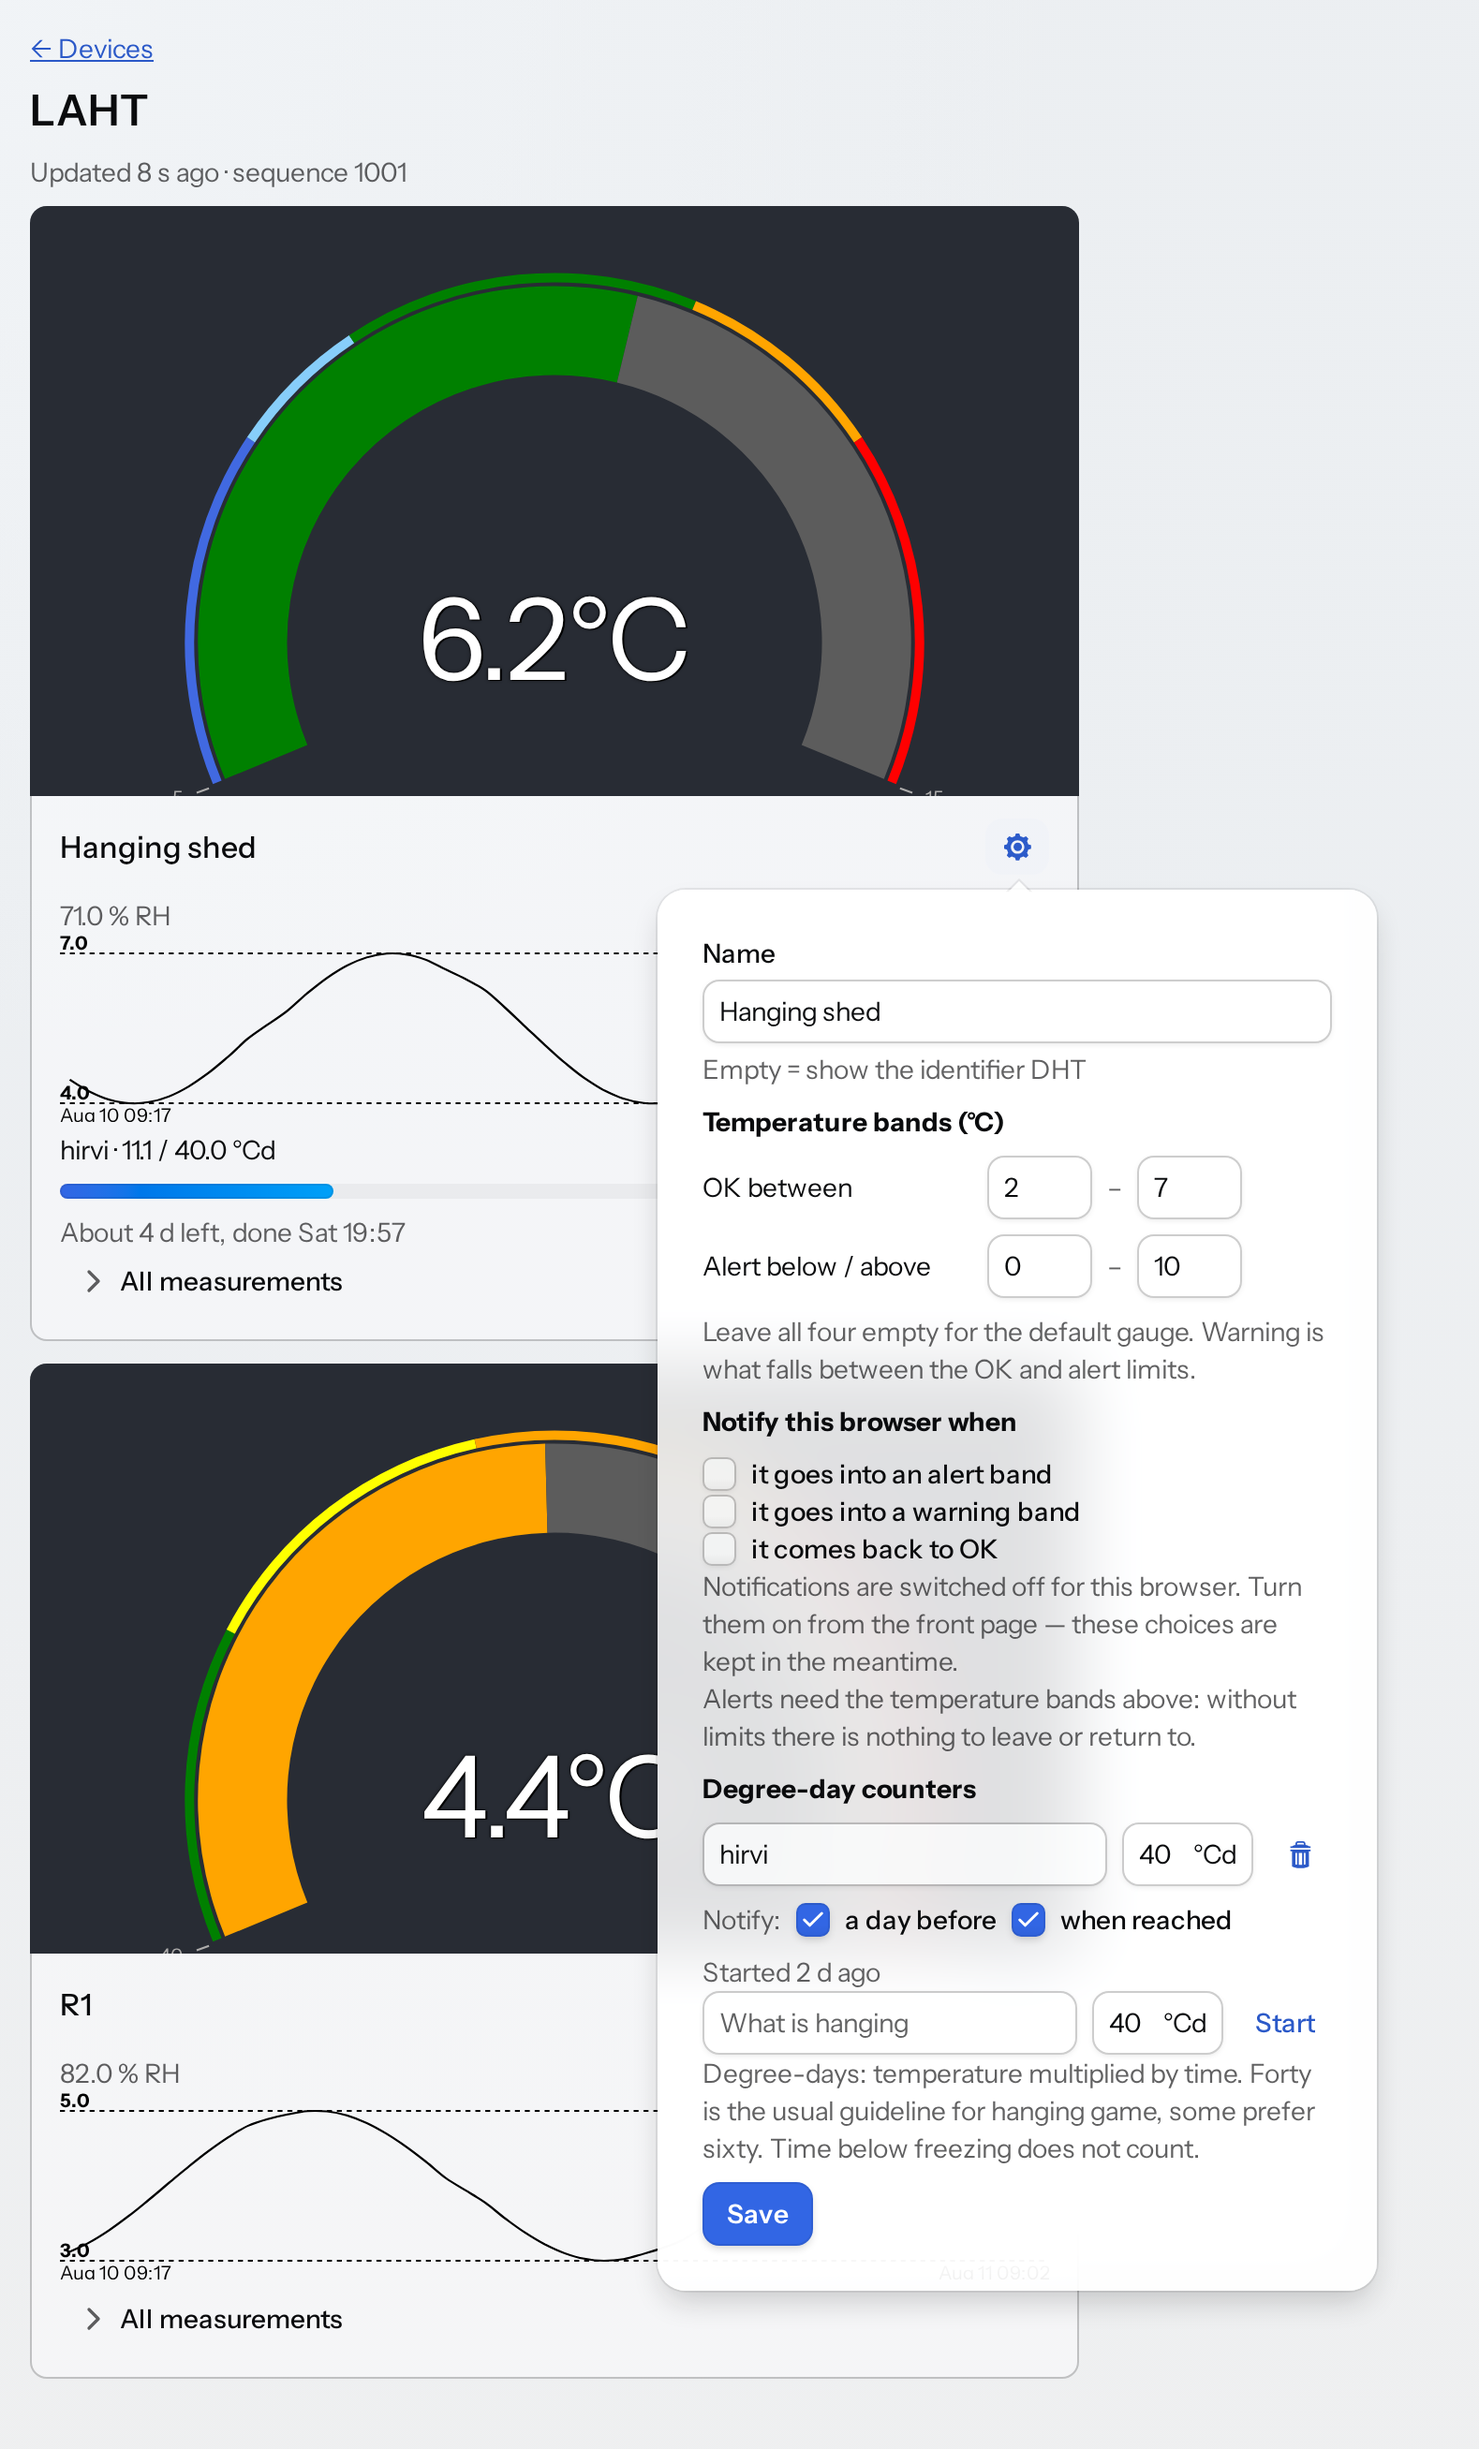
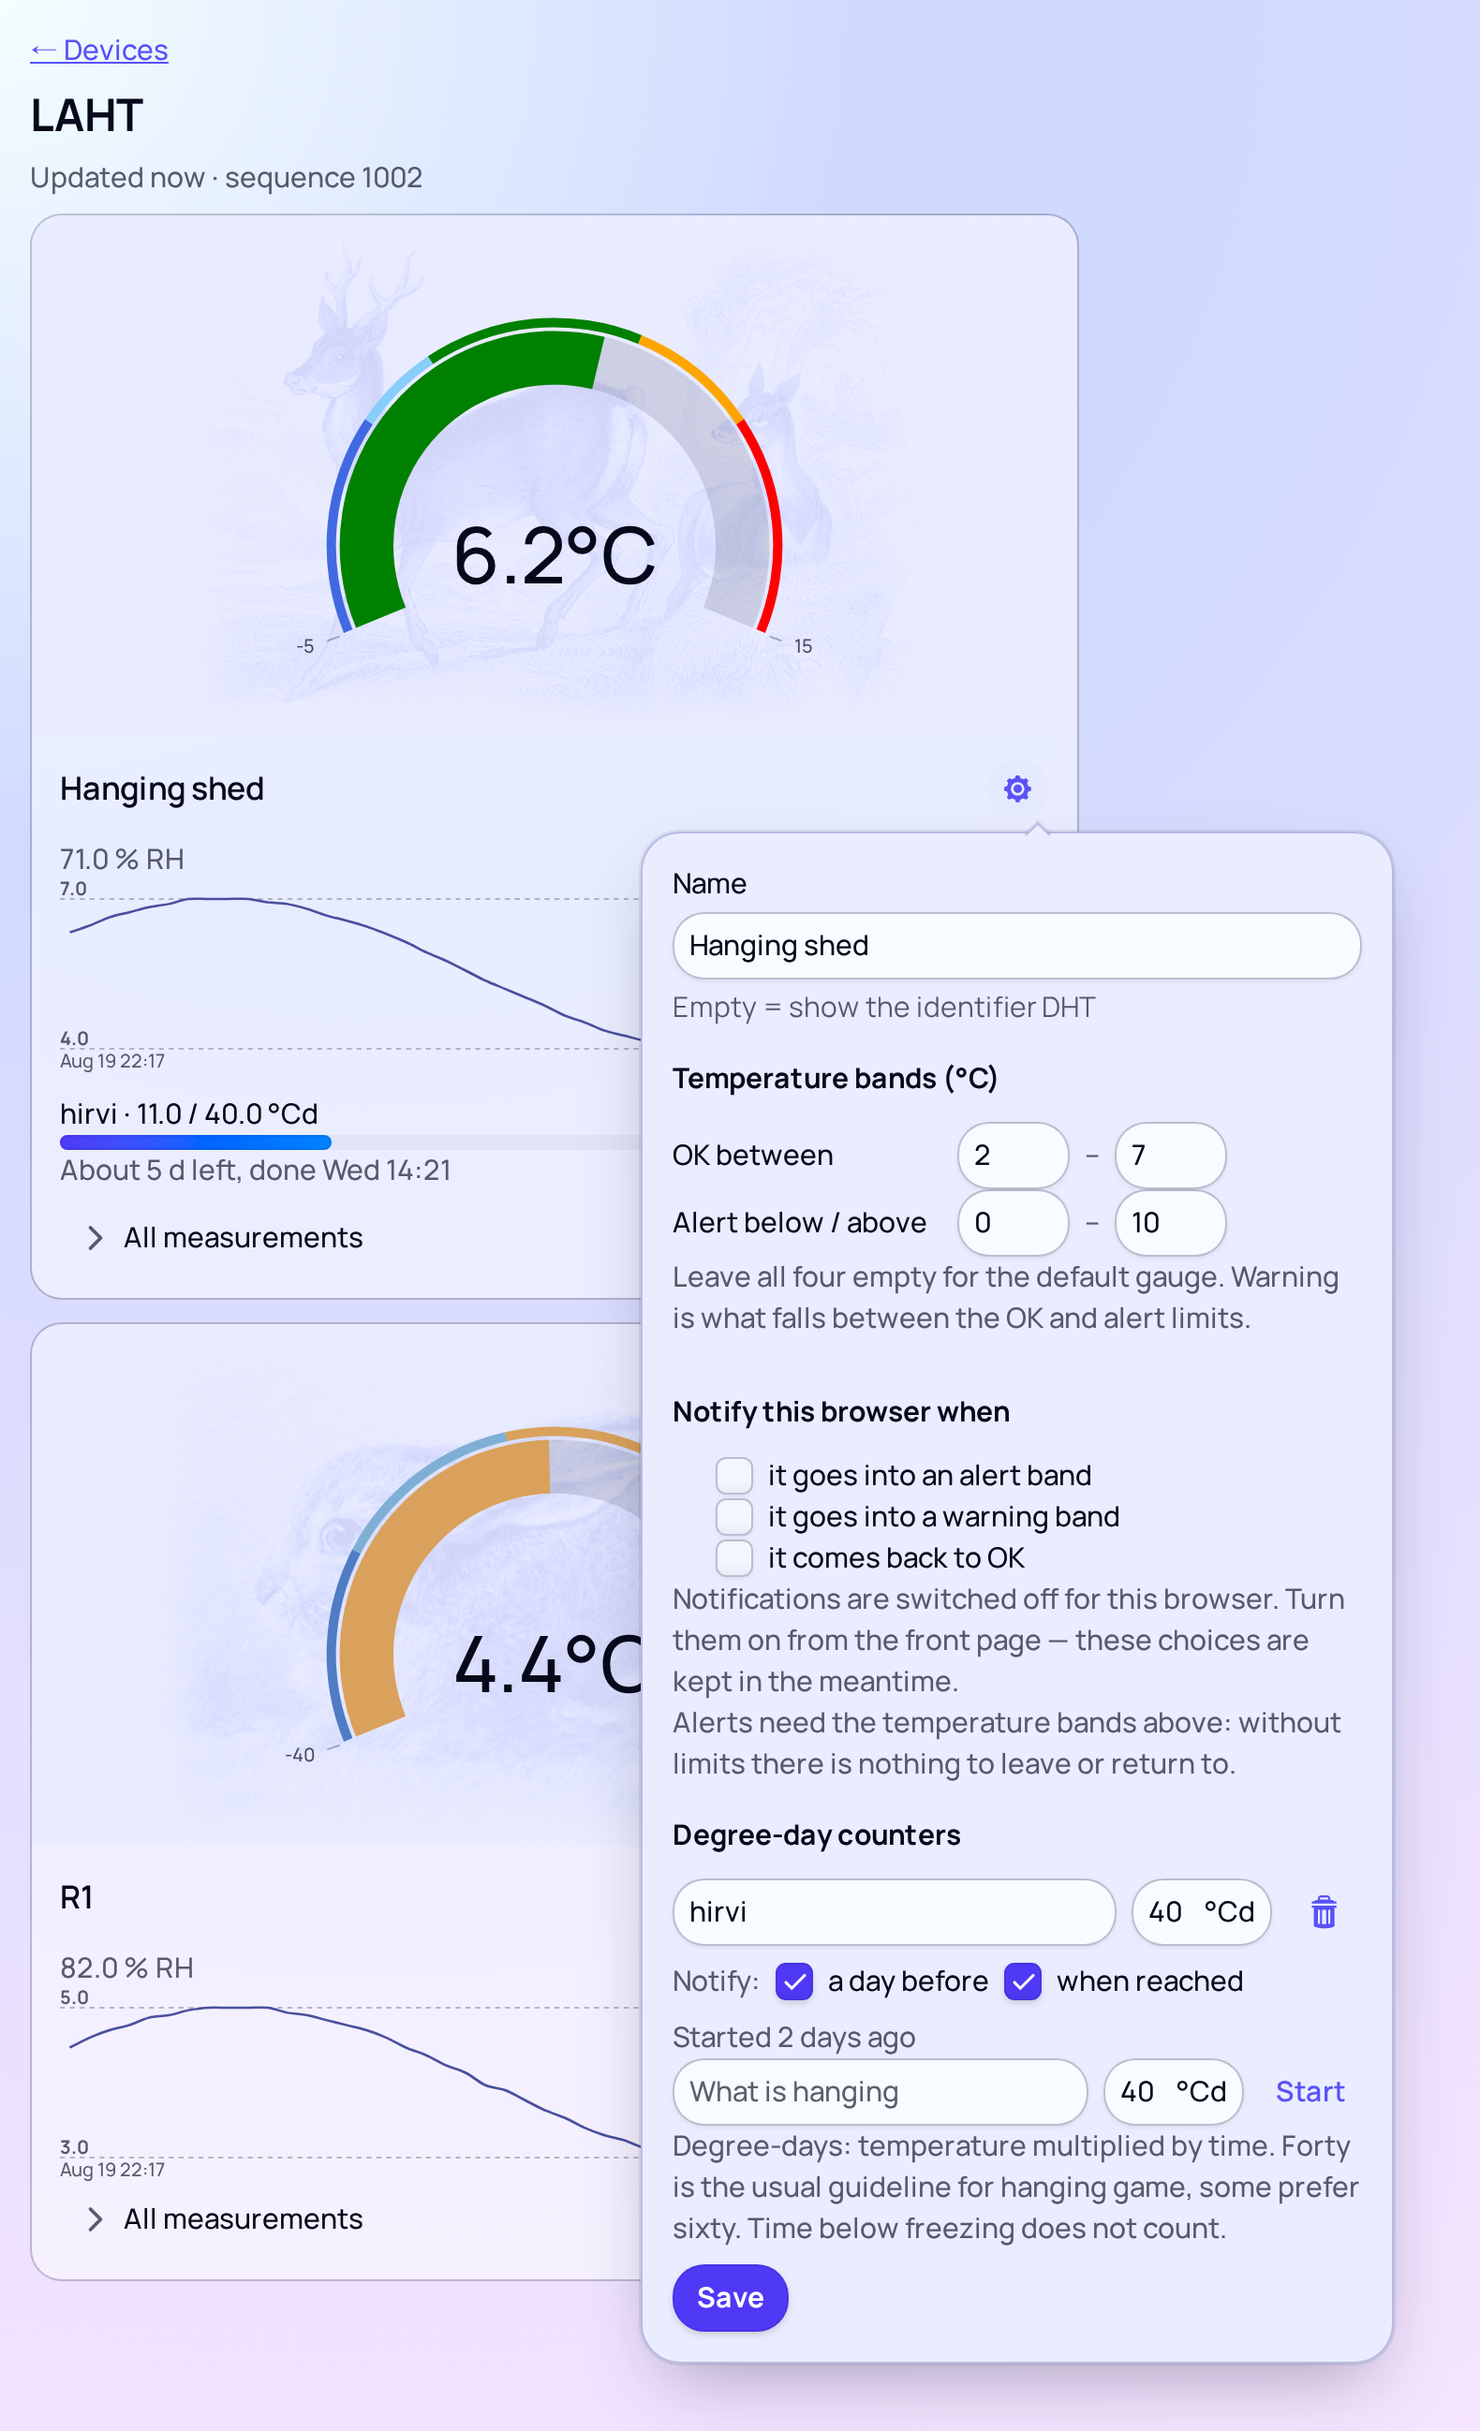
Photograph the application it has become
The screenshot in the README predated everything the theme work did:
the sunset-glass surfaces, the animal motifs behind the dials, the
muted cold-to-hot ramp on the stock gauge, the sectioned settings
popover. A reader comparing the picture with a fresh checkout saw two
different applications.

Retaken with the same story as before — a hanging shed at 6.2 °C with
its bands and a hirvi counter two days in, a second sensor on the
stock gauge — so the caption still describes what the picture shows,
down to the counter reading, which moved from 11.1 to 11.0.

diff --git a/README.md b/README.md
@@ -69,7 +69,7 @@ Each sensor gets a card with a gauge, the last 24 hours as a curve, and every
 reading behind a collapsed section. The settings open from the cog: a name,
 temperature bands that colour the gauge, which of that sensor's alerts this browser
 wants as push notifications, and the degree-day counters — the one above reads
-`hirvi · 11.1 / 40.0 °Cd` with the forecast underneath.
+`hirvi · 11.0 / 40.0 °Cd` with the forecast underneath.
 
 ## Quick start (Pico 2 W)
 
